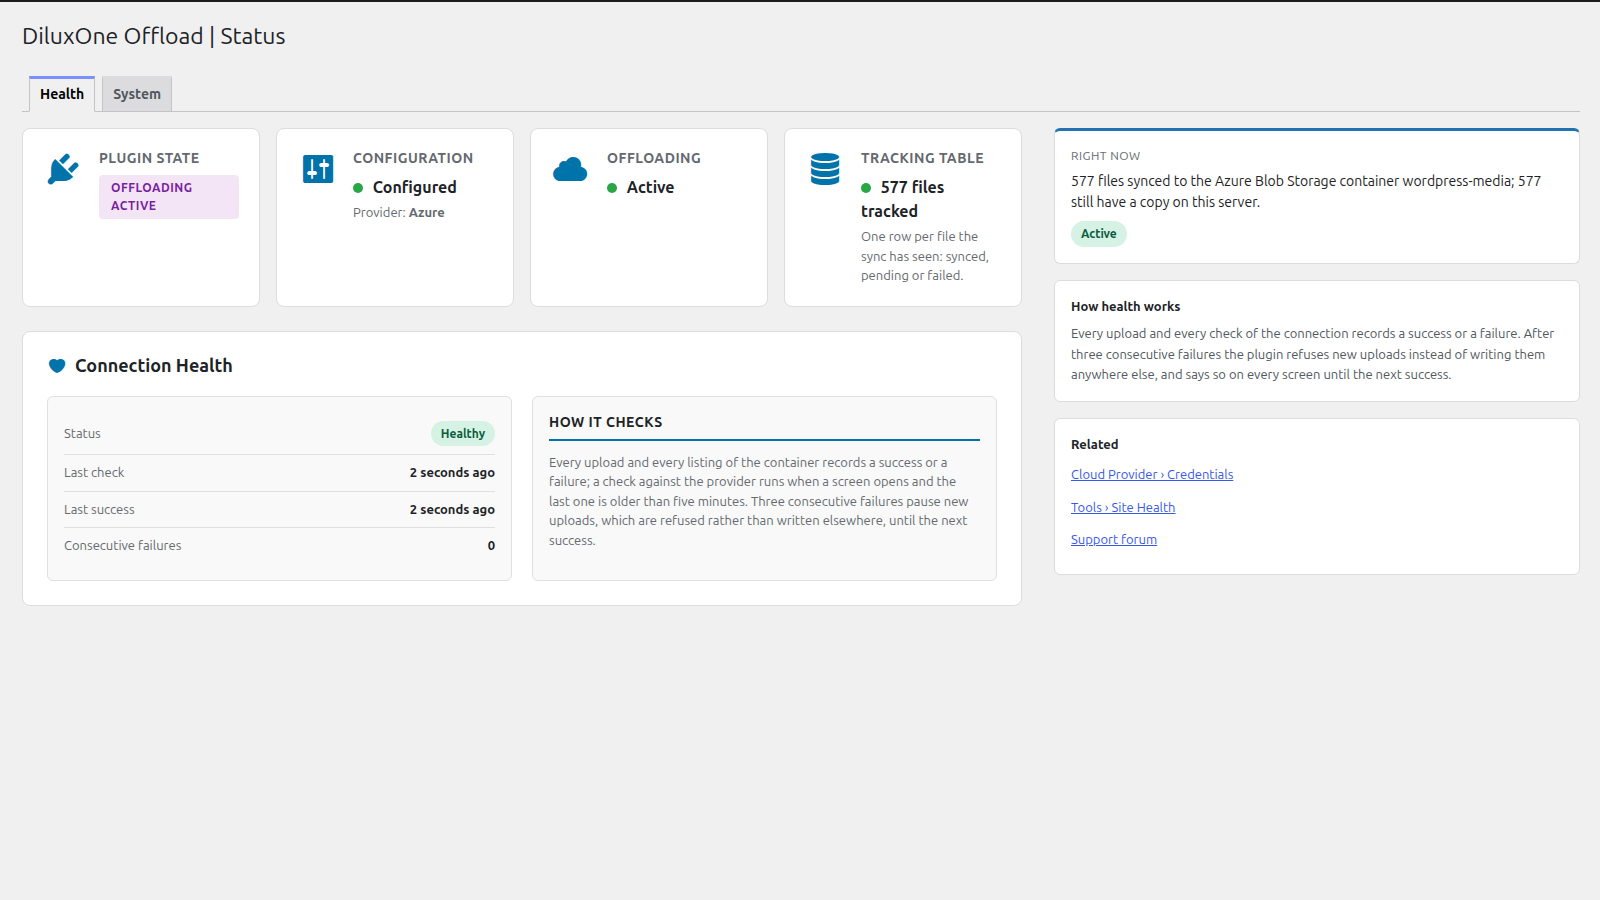
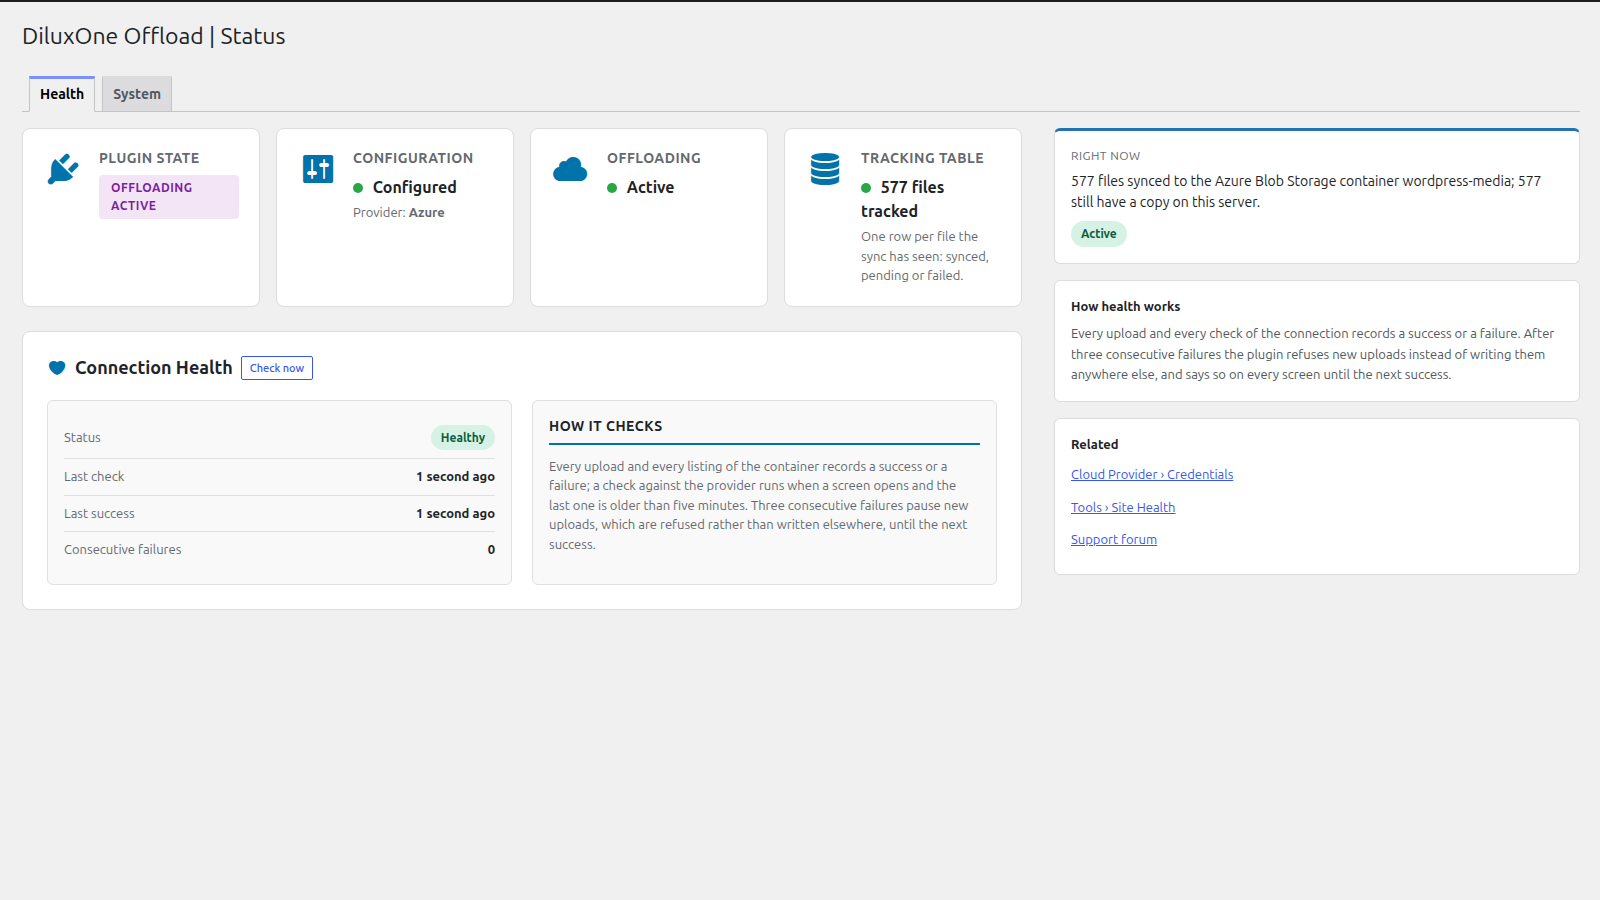
test(admin): the figures, the skipped list, the timestamps and Check now, end to end
The previous pull request shipped the data screens with integration tests only. This one drives everything they show in a browser: with no cloud account (Status › Health with no provider, Check now against a provider that cannot be reached, the banner that follows), against a real container on a single site (the figures against the container's key count, the skipped list naming the empty file, Last upload after a Media Library upload, the Offloading and Disconnect figures after Delete Local Files, Connected since, Check now answering Healthy) and on a network (each site's figures describe its own files; Check now on both sites). The listing screenshots are retaken with the figures.

The testing doc, CONTRIBUTING.md and AGENTS.md now state the rule: a change carries its tests at every layer it touches, in the same pull request, including the real-storage suite on a single site and on a network and the screenshots when a screen changes.

diff --git a/tests/E2E-real/single-site.spec.ts b/tests/E2E-real/single-site.spec.ts
@@ -210,6 +210,41 @@ test.describe.serial( 'single site journey', () => {
 		await expect( page.locator( '#connection-health' ) ).toContainText( /Healthy/ );
 	} );
 
+	test( 'the screens show what is where: the figures, the skipped file, the timestamps, Check now', async ( { page } ) => {
+		const inCloud = ( await listKeys( run, 'uploads/' ) ).length;
+		// Sync: everything synced, every copy still here, nothing uploaded through the site yet.
+		await ui.goTab( page, base, 'sync' );
+		expect( await ui.bignumCount( page, 'Synced' ) ).toBe( inCloud );
+		expect( await ui.bignumCount( page, 'Local copies left' ) ).toBe( inCloud );
+		expect( await ui.bignumCount( page, 'Not on this server' ) ).toBe( 0 );
+		expect( ( await ui.bignum( page, 'Last upload' ) ).value ).toBe( 'none yet' );
+		await expect( page.locator( '.diluxone-offload-bar-head' ) ).toContainText( '100%' );
+		// The empty file is the one thing the scan left out, and the screen says so by name.
+		await expect( page.locator( '.wrap.diluxone-offload-admin' ) ).toContainText( '1 file was left out by the last scan' );
+		const skipped = page.locator( 'details.diluxone-offload-skipped' );
+		await skipped.locator( 'summary' ).click();
+		await expect( skipped ).toContainText( 'Empty files' );
+		await expect( skipped.locator( 'li code' ) ).toHaveText( [ /\/empty-0b\.txt$/ ] );
+		// Offloading: served from the account, every byte still has a copy here, since when.
+		await ui.goTab( page, base, 'offloading' );
+		expect( ( await ui.bignum( page, 'Served from' ) ).value ).toBe( `${ run.account }.blob.core.windows.net` );
+		expect( await ui.bignumCount( page, 'Local copies' ) ).toBe( inCloud );
+		expect( await ui.bignumCount( page, 'Not on this server' ) ).toBe( 0 );
+		expect( ( await ui.bignum( page, 'Offloading since' ) ).value ).not.toBe( '—' );
+		await expect( page.locator( '.diluxone-offload-bar-head' ) ).toContainText( '0% cloud only' );
+		// Disconnect: nothing to bring back yet.
+		await ui.goTab( page, base, 'disconnect' );
+		expect( await ui.bignumCount( page, 'Files to bring back' ) ).toBe( 0 );
+		// Connection: since when.
+		await ui.goTab( page, base, 'connection' );
+		await expect( page.locator( '#provider-info' ) ).toContainText( 'Connected since' );
+		// Health: Check now asks the provider and answers on the spot.
+		await ui.goTab( page, base, 'health' );
+		expect( await ui.checkHealthNow( page ) ).toMatch( /Healthy/ );
+		await expect( page.locator( '#health-last-success' ) ).toHaveText( /just now/ );
+		await expect( page.locator( '#health-failures strong' ) ).toHaveText( '0' );
+	} );
+
 	test( 'a Media Library upload lands in the container with its thumbnails and a public URL', async ( { page } ) => {
 		const source = path.join( FIXTURE_DIR, 'small-300k.png' );
 		const upload = path.join( FIXTURE_DIR, 'ui-upload.png' );
@@ -236,6 +271,16 @@ test.describe.serial( 'single site journey', () => {
 		const front = await http.get( `${ base }/?attachment_id=${ uiUploadId }` );
 		expect( await front.text(), 'the front end links the cloud URL' ).toContain( url );
 		await http.dispose();
+
+		// The Sync tab knows about it without a scan: the upload and its
+		// thumbnails are synced, cloud only, and the last of them is "Last upload".
+		const inCloud = ( await listKeys( run, 'uploads/' ) ).length;
+		await ui.goTab( page, base, 'sync' );
+		expect( await ui.bignumCount( page, 'Synced' ) ).toBe( inCloud );
+		expect( await ui.bignumCount( page, 'Not on this server' ) ).toBe( 1 + sizes.length );
+		const last = await ui.bignum( page, 'Last upload' );
+		expect( last.value ).toMatch( /ago|just now/ );
+		expect( last.detail ).toMatch( /^ui-upload.*\.png · / );
 	} );
 
 	test( 'deleting the local copies frees the disk and the site keeps serving', async ( { page } ) => {
@@ -248,6 +293,18 @@ test.describe.serial( 'single site journey', () => {
 		expect( ( await http.head( attachmentUrl( site, uiUploadId ) ) ).status() ).toBe( 200 );
 		await http.dispose();
 		expect( pluginState( site ) ).toBe( 'offloading_active' );
+
+		// The figures follow: nothing left here, everything cloud only, and
+		// Disconnect says what it would bring back and that the disk can take it.
+		const inCloud = ( await listKeys( run, 'uploads/' ) ).length;
+		await ui.goTab( page, base, 'offloading' );
+		expect( await ui.bignumCount( page, 'Local copies' ) ).toBe( 0 );
+		expect( await ui.bignumCount( page, 'Not on this server' ) ).toBe( inCloud );
+		await expect( page.locator( '.diluxone-offload-bar-head' ) ).toContainText( '100% cloud only' );
+		await ui.goTab( page, base, 'disconnect' );
+		expect( await ui.bignumCount( page, 'Files to bring back' ) ).toBe( inCloud );
+		expect( ( await ui.bignum( page, 'Size to bring back' ) ).value ).not.toMatch( /^0 B$/ );
+		expect( ( await ui.bignum( page, 'Free disk here' ) ).detail ).toBe( 'enough for what is in the cloud' );
 	} );
 
 	test( 'a download can be cancelled and resumed', async ( { page } ) => {
@@ -277,6 +334,10 @@ test.describe.serial( 'single site journey', () => {
 			expect( md5Inside( site, `${ uploadsDir }/${ rel }` ), `${ rel } bytes` ).toBe( await blobMd5( run, key ) );
 		}
 		expect( local.filter( ( f ) => f.endsWith( '.dlxpart' ) ).length ).toBe( 0 );
+		// Every row has its copy back: the Sync tab counts no file as cloud only.
+		expect( await ui.bignumCount( page, 'Synced' ) ).toBe( keys.length );
+		expect( await ui.bignumCount( page, 'Local copies left' ) ).toBe( keys.length );
+		expect( await ui.bignumCount( page, 'Not on this server' ) ).toBe( 0 );
 	} );
 
 	test( 'the access key can be rotated on the Credentials tab', async ( { page } ) => {

diff --git a/tests/E2E/status-health.spec.ts b/tests/E2E/status-health.spec.ts
@@ -1,0 +1,56 @@
+import { test, expect } from '@playwright/test';
+import { configureUnreachableProvider, resetPlugin } from './helpers/wp';
+
+/**
+ * Status › Health and the data screens without a cloud account: what they
+ * say when nothing is connected, and what "Check now" does when the
+ * provider cannot be reached. The success path runs in the real suite.
+ */
+const ADMIN = '/wp-admin/admin.php';
+const HEALTH = `${ ADMIN }?page=diluxone-offload-status&tab=health`;
+
+test.describe( 'Status › Health without a provider', () => {
+	test( 'says there is nothing to check and offers no button', async ( { page } ) => {
+		await page.goto( HEALTH );
+		await expect( page.locator( '#connection-health' ) ).toContainText( 'No provider is connected, so there is no connection to check.' );
+		await expect( page.locator( '#check-health-now' ) ).toHaveCount( 0 );
+	} );
+
+	test( 'the Sync, Offloading and Disconnect tabs ask for a provider first', async ( { page } ) => {
+		for ( const tab of [ 'sync', 'offloading', 'disconnect' ] ) {
+			await page.goto( `${ ADMIN }?page=diluxone-offload-sync&tab=${ tab }` );
+			await expect( page.locator( '.wrap.diluxone-offload-admin' ) ).toContainText( 'Connect a cloud provider in Cloud Provider › Connection first.' );
+			await expect( page.locator( '.diluxone-offload-bignum' ) ).toHaveCount( 0 );
+		}
+	} );
+} );
+
+test.describe.serial( 'Status › Health with a provider that cannot be reached', () => {
+	test.beforeAll( () => configureUnreachableProvider() );
+	test.afterAll( () => resetPlugin() );
+
+	test( 'Check now runs the check, reports Unhealthy and stamps the time', async ( { page } ) => {
+		await page.goto( HEALTH );
+		const button = page.locator( '#check-health-now' );
+		await expect( button ).toBeVisible();
+		await button.click();
+		// The button is disabled while the request runs, then comes back.
+		await expect( button ).toBeEnabled( { timeout: 60_000 } );
+		await expect( page.locator( '#health-status' ) ).toContainText( /Unhealthy/ );
+		await expect( page.locator( '#health-last-check' ) ).toHaveText( /just now/ );
+		await expect( page.locator( '#health-failures strong' ) ).toHaveText( /^[1-9]\d*$/ );
+		// The table on a fresh load agrees with what the button wrote.
+		await page.reload();
+		await expect( page.locator( '#health-status' ) ).toContainText( /Unhealthy/ );
+		await expect( page.locator( '#health-last-check' ) ).toContainText( /ago/ );
+	} );
+
+	test( 'after a failed check every screen carries the banner that says why', async ( { page } ) => {
+		for ( const url of [ `${ ADMIN }?page=diluxone-offload-provider&tab=connection`, `${ ADMIN }?page=diluxone-offload`, `${ ADMIN }?page=diluxone-offload-sync&tab=sync` ] ) {
+			await page.goto( url );
+			const wrap = page.locator( '.wrap.diluxone-offload-admin' );
+			await expect( wrap ).toContainText( 'Cloud Connection Error' );
+			await expect( wrap ).toContainText( 'Could not resolve host' );
+		}
+	} );
+} );

diff --git a/tests/E2E-real/multisite.spec.ts b/tests/E2E-real/multisite.spec.ts
@@ -81,6 +81,18 @@ test.describe.serial( 'multisite journey', () => {
 		expect( await ui.refreshStats( page ) ).toBe( keys.filter( ( k ) => ! k.startsWith( 'uploads/sites/' ) ).length );
 		await ui.goTab( page, other, 'overview' );
 		expect( await ui.refreshStats( page ) ).toBe( keys.filter( ( k ) => k.startsWith( `uploads/sites/${ blogId }/` ) ).length );
+
+		// The figures are per site too, and so is the health check.
+		const mainCount = keys.filter( ( k ) => ! k.startsWith( 'uploads/sites/' ) ).length;
+		const otherCount = keys.filter( ( k ) => k.startsWith( `uploads/sites/${ blogId }/` ) ).length;
+		for ( const [ home, count ] of [ [ base, mainCount ], [ other, otherCount ] ] as [ string, number ][] ) {
+			await ui.goTab( page, home, 'sync' );
+			expect( await ui.bignumCount( page, 'Synced' ) ).toBe( count );
+			expect( await ui.bignumCount( page, 'Local copies left' ) ).toBe( count );
+			expect( await ui.bignumCount( page, 'Not on this server' ) ).toBe( 0 );
+			await ui.goTab( page, home, 'health' );
+			expect( await ui.checkHealthNow( page ) ).toMatch( /Healthy/ );
+		}
 	} );
 
 	test( 'a Media Library upload on the other site lands under its prefix', async ( { page } ) => {
@@ -100,6 +112,15 @@ test.describe.serial( 'multisite journey', () => {
 		await ui.deleteLocalFiles( page );
 		expect( filesUnder( site, otherUploads ).length ).toBe( 0 );
 		expect( filesUnder( site, mainUploads ).filter( ( f ) => ! f.startsWith( 'sites/' ) ) ).toEqual( mainOwnBefore );
+		// Each site's figures describe that site only.
+		const otherInCloud = ( await listKeys( run, `uploads/sites/${ blogId }/` ) ).length;
+		expect( await ui.bignumCount( page, 'Local copies' ) ).toBe( 0 );
+		expect( await ui.bignumCount( page, 'Not on this server' ) ).toBe( otherInCloud );
+		await ui.goTab( page, other, 'disconnect' );
+		expect( await ui.bignumCount( page, 'Files to bring back' ) ).toBe( otherInCloud );
+		await ui.goTab( page, base, 'offloading' );
+		expect( await ui.bignumCount( page, 'Local copies' ) ).toBe( mainOwnBefore.length );
+		expect( await ui.bignumCount( page, 'Not on this server' ) ).toBe( 0 );
 
 		// And the other way round: Delete Local Files on the main site leaves the other site's directory alone.
 		await ui.goTab( page, other, 'disconnect' );

diff --git a/tests/E2E-real/helpers/plugin.ts b/tests/E2E-real/helpers/plugin.ts
@@ -292,3 +292,31 @@ export async function uploadThroughMediaLibrary( page: Page, base: string, file:
 	const id = await first.getAttribute( 'id' );
 	return Number( ( id ?? '' ).replace( /\D/g, '' ) );
 }
+
+/**
+ * One of the figures a data screen shows (Sync, Offloading, Disconnect): the
+ * value and the line under it, found by the label above it.
+ */
+export async function bignum( page: Page, label: string ): Promise< { value: string; detail: string } > {
+	const card = page.locator( '.diluxone-offload-bignum', { has: page.locator( '.diluxone-offload-bignum__k', { hasText: new RegExp( `^${ label.replace( /[.*+?^${}()|[\]\\]/g, '\\$&' ) }$` ) } ) } );
+	await expect( card, `the "${ label }" figure is on the screen` ).toHaveCount( 1 );
+	return {
+		value: ( await card.locator( '.diluxone-offload-bignum__v' ).innerText() ).trim(),
+		detail: ( await card.locator( '.diluxone-offload-bignum__d' ).innerText().catch( () => '' ) ).trim(),
+	};
+}
+
+/** The number a figure shows, whatever the locale's thousands separator. */
+export async function bignumCount( page: Page, label: string ): Promise< number > {
+	return Number( ( await bignum( page, label ) ).value.replace( /\D/g, '' ) );
+}
+
+/** Status › Health: click "Check now" and wait for the answer; returns the status cell's text. */
+export async function checkHealthNow( page: Page ): Promise< string > {
+	const button = page.locator( '#check-health-now' );
+	await expect( button ).toBeVisible();
+	await button.click();
+	await expect( button ).toBeEnabled( { timeout: 60_000 } );
+	await expect( page.locator( '#health-last-check' ) ).toHaveText( /just now/ );
+	return ( await page.locator( '#health-status' ).innerText() ).trim();
+}

diff --git a/tests/E2E/helpers/wp.ts b/tests/E2E/helpers/wp.ts
@@ -1,0 +1,30 @@
+import { execFileSync } from 'node:child_process';
+
+/**
+ * WP-CLI against the wp-env dev site the mock suite drives. Used only to put
+ * the site in a state the browser cannot reach without a cloud account, and
+ * to put it back.
+ */
+export function wp( args: string[] ): string {
+	const out = execFileSync( 'npx', [ 'wp-env', 'run', 'cli', 'wp', ...args ], {
+		encoding: 'utf8',
+		stdio: [ 'ignore', 'pipe', 'pipe' ],
+		env: { ...process.env, WP_ENV_DEBUG: '' },
+	} );
+	return out.split( '\n' ).filter( ( line ) => ! /^[ℹ✔✖]/.test( line ) ).join( '\n' ).trim();
+}
+
+/**
+ * Store a provider that looks right and cannot be reached: a storage account
+ * that does not exist. Every check against it fails at once, which is what a
+ * test of the failure path wants.
+ */
+export function configureUnreachableProvider(): void {
+	const key = Buffer.from( 'a key of the right shape that opens nothing at all........' ).toString( 'base64' );
+	wp( [ 'eval', `\\DiluxOneOffload\\ConfigManager::save_config( array( 'cloud_provider' => 'azure', 'provider_config' => array( 'storage_account' => 'diluxonee2enosuchaccount', 'access_key' => '${ key }', 'container_name' => 'nowhere' ) ) ); \\DiluxOneOffload\\ConfigManager::set_state( \\DiluxOneOffload\\Enums\\PluginState::CONFIGURED );` ] );
+}
+
+/** Back to an unconfigured plugin, the state every other mock spec expects. */
+export function resetPlugin(): void {
+	wp( [ 'eval', '\\DiluxOneOffload\\ConfigManager::reset();' ] );
+}

diff --git a/docs/plans/2.0.0.md b/docs/plans/2.0.0.md
@@ -454,7 +454,7 @@ Shipped in `feat/admin-data` (2.0.0), as listed here, with two differences: `mod
 
 ### 4.3 Pull requests
 
-Two, before C in 2.13, so the S3 form is born on the new screens. `refactor/admin-screens` (merged first) carries the menu, the screens and tabs, the header convention, the rail, the split templates, the redirects of the old URLs, the Health table read from what the plugin already records, the strings, the suites and the docs; it changes no behaviour of the forms and adds no data. `feat/admin-data` carries A1–A7 and the richer Sync, Offloading, Disconnect and Health figures that need them. The settings the table above marks 2.1.0 (skip list, caching header, alerts) are not in 2.0.0: the Settings screen ships with its three tabs holding today's settings, and the Logging tab is called that until the alerts arrive. The screenshots are retaken with the screens once C lands. Filenames is 4.0.0, a release of its own. The per-service Advanced options ship with C (S3), with the Azure access tier in a small PR of its own (Hot and Cool only: Cold needs `x-ms-version` 2021-12-02 or later and the plugin signs with 2020-04-08; Archive takes the blob offline).
+Two, before C in 2.13, so the S3 form is born on the new screens. `refactor/admin-screens` (merged first) carries the menu, the screens and tabs, the header convention, the rail, the split templates, the redirects of the old URLs, the Health table read from what the plugin already records, the strings, the suites and the docs; it changes no behaviour of the forms and adds no data. `feat/admin-data` carries A1–A7 and the richer Sync, Offloading, Disconnect and Health figures that need them. The settings the table above marks 2.1.0 (skip list, caching header, alerts) are not in 2.0.0: the Settings screen ships with its three tabs holding today's settings, and the Logging tab is called that until the alerts arrive. A third pull request, `test/admin-data-e2e`, gave the figures, the skipped list, the timestamps and Check now their end-to-end coverage (mock, single site and network) and retook the screenshots; they are retaken again once C lands. Filenames is 4.0.0, a release of its own. The per-service Advanced options ship with C (S3), with the Azure access tier in a small PR of its own (Hot and Cool only: Cold needs `x-ms-version` 2021-12-02 or later and the plugin signs with 2020-04-08; Archive takes the blob offline).
 
 Visual rules, so the screens look like the mock-up and not like each other's cousins: cards in a grid of equal columns and rows (`grid-auto-rows: 1fr`), every card with title, value and a detail line; WordPress' own buttons, tabs and `form-table`; destructive actions as ordinary buttons that open a confirmation dialog; no third-party logos anywhere (trademark rules and wordpress.org's review), a neutral glyph per provider family instead.
 

diff --git a/docs/testing-and-quality.md b/docs/testing-and-quality.md
@@ -20,9 +20,11 @@ The pull request checks run from [`.github/workflows/pull-request.yml`](../.gith
 | Claude review | shared `claude-review` workflow | Everything in [`architecture.md`](architecture.md) and the WordPress review profile; rates risk and complexity. Whole change first, then only new pushes; light model for low-risk paths. | after fast | (runs on PR) |
 | Claude replies | shared `review-reply` workflow | Answers a member or collaborator who mentions `@dilux-bot` in a review thread or the conversation, on a pull request from a branch of this repository; resolves its own thread when the problem is fixed or shown not to be one. | on comment | (runs on a mention) |
 | Integration tests | PHPUnit + wp-env (multisite network) | Behaviour against a real WordPress runtime + DB. | slow | `make test-integration` |
-| End-to-end tests | Playwright + wp-env, fake cloud client | Every admin screen driven as a user. | slow | `make test-e2e` |
+| End-to-end tests | Playwright + wp-env, no cloud account | Every admin screen driven as a user: rendering and layout, settings round trips, what the data screens say with no provider, and Status › Health's "Check now" against a provider that cannot be reached. | slow | `make test-e2e` |
 | Real-storage suite | Playwright + PHPUnit against a real Azure account | Every screen and transfer, single site and network, verified byte for byte. | `tests-real-azure.yml` | `make test-real` |
 | JS supply chain | CodeQL (JS) | Common JS vulnerability patterns. | `codeql.yml` | (runs when JS changes) |
+
+A change carries its tests **at every layer it touches**, in the same pull request: a unit test for logic that stands alone, an integration test for behaviour against WordPress and the database, an end-to-end test for what a user sees without a cloud account, a step in the real-storage suite (single site **and** network) for what needs the cloud, and the listing screenshots retaken (`make screenshots`) when a screen changes. A feature that only its integration test has seen is not done.
 
 **Every job above except CodeQL and the Claude replies is a required status check on `main`**, and branch protection applies to administrators too. CodeQL runs only when JavaScript changes (path filter), so it cannot be required; its alerts land in the Security tab. The replies run only when someone mentions the bot, so they are not a check at all.
 

diff --git a/CONTRIBUTING.md b/CONTRIBUTING.md
@@ -11,7 +11,7 @@ Thanks for helping. This page covers issues, pull requests and what CI enforces.
 ## Pull requests
 
 1. Branch from `main`: in your fork if you are an outside contributor, in the repository if you are a maintainer. Name it `<type>/<kebab-case>`, for example `fix/sync-retry-count`.
-2. Make the change with its tests, and update any doc that describes what you changed. A change a user notices adds one bullet to the newest `= X.Y.Z =` entry of `readme.txt`, under its `Unreleased.` line; leave that line alone ([`docs/release.md`](docs/release.md)).
+2. Make the change with its tests at every layer it touches (unit, integration, end-to-end, the real-storage suite on a single site and on a network, and the listing screenshots when a screen changes; see [`docs/testing-and-quality.md`](docs/testing-and-quality.md)), and update any doc that describes what you changed. A change a user notices adds one bullet to the newest `= X.Y.Z =` entry of `readme.txt`, under its `Unreleased.` line; leave that line alone ([`docs/release.md`](docs/release.md)).
 3. Run `make check` (PHPCS, PHPStan, Psalm, unit tests). Integration, end-to-end, i18n and Plugin Check have their own targets; CI runs all of them.
 4. Open the pull request and fill in the template: 📝 What changes and 💡 Why are required, 🧪 How I tested it and 📸 Screenshots help the review. The description becomes the commit body on `main`, word for word, so write it for the person who reads the history in a year: plain words, short paragraphs.
 5. If AI took part, end the description with one line: `🤖 AI-assisted · <model> (<maker>)`. The rules for contributing with AI are in [`docs/ai.md`](docs/ai.md).

diff --git a/AGENTS.md b/AGENTS.md
@@ -46,6 +46,12 @@ make test-integration    # needs make env
 make plugin-check        # wordpress.org's Plugin Check on the built dist
 ```
 
+A change carries its tests at every layer it touches, in the same pull
+request: unit, integration, end-to-end without a cloud account, the
+real-storage suite on a single site and on a network, and the listing
+screenshots (`make screenshots`) when a screen changes
+([`docs/testing-and-quality.md`](docs/testing-and-quality.md)).
+
 Every job that runs on a pull request is a required check on `main`, except
 CodeQL, which only runs when JavaScript changes (`release.yml` runs on
 pushes to `main` and on release tags, never on a pull request). Every pull
